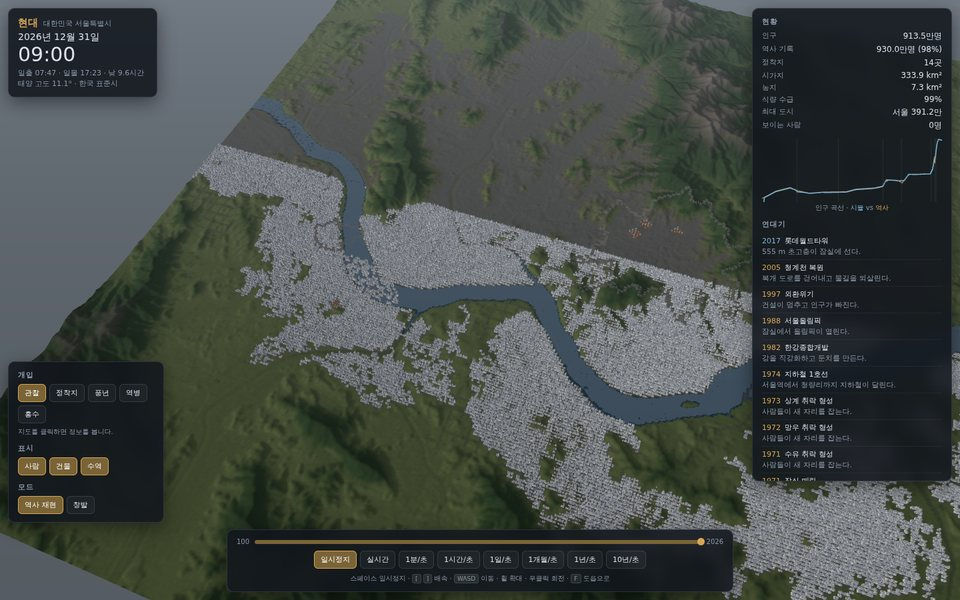
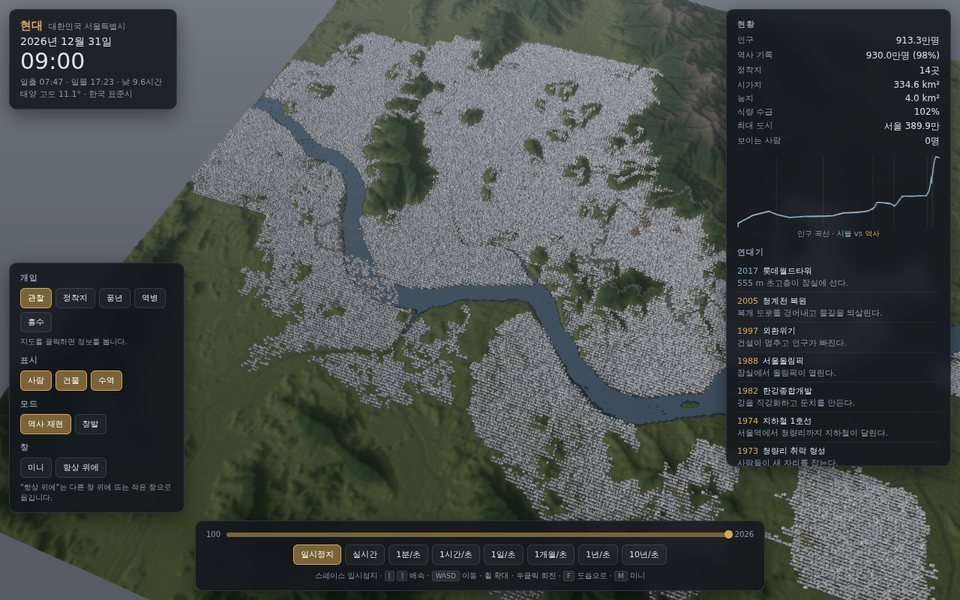
Draw the whole city instead of stopping at a budget
Modern Seoul asks for about 184,000 buildings from the default view. The
instanced mesh held 90,000, and the loop simply stopped when it filled, which
left a straight grey edge across the north of the city where the buildings ran
out. It was plainly visible whenever the camera was pulled back.

The rebuild now measures the demand first and thins it evenly: every built cell
keeps at least one building, and the rest of the budget is shared in proportion
to what each cell asked for, so the blocks nearest the camera stay the most
detailed and the far ones degrade to a single marker rather than to nothing.
The cap is also raised to 120,000.

Verified by rendering 2026 from the default view: the built area now runs
unbroken to the mountains, with Bukhansan, Namsan and Gwanaksan showing through
as the parks they are.

Claude-Session: https://claude.ai/code/session_01Dau6ewCVVmu2Pig8HTCoR1

diff --git a/civsim/web/src/render/city.ts b/civsim/web/src/render/city.ts
@@ -8,8 +8,8 @@ import { LandUse, World } from '../core/world/worldData.ts';
 import type { SettlementSystem } from '../core/settle/settlement.ts';
 import { hash2 } from '../core/rng.ts';
 
-const MAX_BODIES = 90000;
-const MAX_ROOFS = 90000;
+const MAX_BODIES = 120000;
+const MAX_ROOFS = 120000;
 const MAX_WALLS = 4000;
 const MAX_MONUMENTS = 3000;
 
@@ -79,6 +79,36 @@ export class CityView {
     const j0 = Math.max(0, cj - ri);
     const j1 = Math.min(w.nz - 1, cj + ri);
 
+    /** How many buildings a cell would get if there were budget for everything. */
+    const fullDetail = (k: number, x: number, z: number): number => {
+      const ratio = Math.hypot(x - focusX, z - focusZ) / Math.max(500, cameraDistance);
+      const detail = ratio < 2.5 ? 6 : ratio < 5 ? 3 : 1;
+      const density = Math.min(1, land.cellBuild[k]!);
+      return Math.max(1, Math.min(detail, Math.round(density * detail + 0.35)));
+    };
+
+    // Modern Seoul asks for about 180,000 buildings from the default view, well past what one
+    // instanced mesh holds. Rather than running out part way through and leaving a straight edge
+    // across the city, measure the demand first and thin it out evenly: every built cell keeps at
+    // least one building, and what is left of the budget is shared in proportion to demand, so the
+    // blocks nearest the camera stay the most detailed.
+    let demandCells = 0;
+    let demandTotal = 0;
+    for (let j = j0; j <= j1; j++) {
+      for (let i = i0; i <= i1; i++) {
+        const k = w.index(i, j);
+        if (land.cellWall[k] === 1 || land.cellMonument[k] === 1) continue;
+        if (land.cellBuild[k]! < 0.05) continue;
+        const c = w.cellCentre(i, j);
+        demandCells++;
+        demandTotal += fullDetail(k, c.x, c.z);
+      }
+    }
+    const spare = MAX_BODIES - demandCells;
+    const detailScale = demandTotal > MAX_BODIES && demandTotal > demandCells
+      ? Math.max(0, spare / (demandTotal - demandCells))
+      : 1;
+
     for (let j = j0; j <= j1; j++) {
       for (let i = i0; i <= i1; i++) {
         const k = w.index(i, j);
@@ -137,15 +167,10 @@ export class CityView {
         if (nb >= MAX_BODIES) continue;
         const damage = land.cellDamage[k]!;
         const density = Math.min(1, build);
-        const dist = Math.hypot(x - focusX, z - focusZ);
 
-        // A 100 m cell holds dozens of houses. Draw several of them where the camera can see
-        // them and fall back to one marker further out, so the count stays bounded.
-        // Detail is judged against how far away the camera is, not against a fixed distance, so a
-        // street view fills the visible blocks with houses and an orbital view does not try to.
-        const ratio = dist / Math.max(500, cameraDistance);
-        const detail = ratio < 2.5 ? 6 : ratio < 5 ? 3 : 1;
-        const perCell = Math.max(1, Math.min(detail, Math.round(density * detail + 0.35)));
+        // A 100 m cell holds dozens of houses. Draw several where the camera can see them, one
+        // further out, and thin everything by whatever the budget allows.
+        const perCell = Math.max(1, 1 + Math.round((fullDetail(k, x, z) - 1) * detailScale));
 
         for (let b = 0; b < perCell && nb < MAX_BODIES; b++) {
           const r1 = hash2(i * 7 + b, j * 13 + b, 13);
@@ -158,7 +183,6 @@ export class CityView {
           const width = era >= Era.Industrial ? 14 + r2 * 30 : 7 + r2 * 8;
           const depth = width * (0.6 + r3 * 0.9);
 
-          // Spread the buildings over the cell without letting them run into each other.
           // Lay the buildings out on a loose 3 x 2 grid inside the cell with a lot of slop, so a
           // block reads as houses along a lane rather than as a regular pattern.
           const cols = 3;
